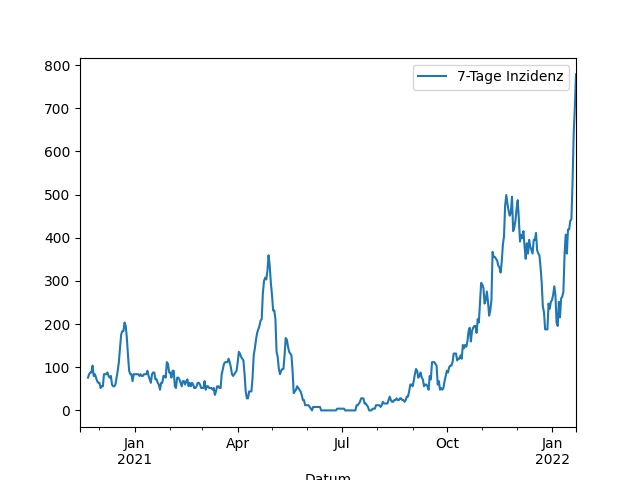
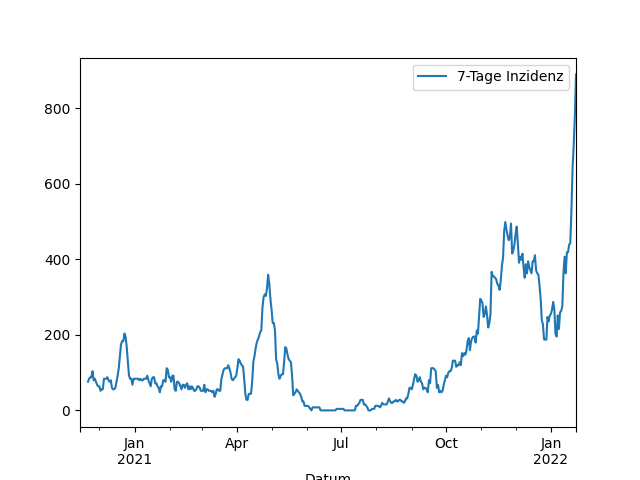
Update images

diff --git a/_includes/aktuelle_inzidenz.md b/_includes/aktuelle_inzidenz.md
@@ -1,1 +1,1 @@
-778,4
+890,1
